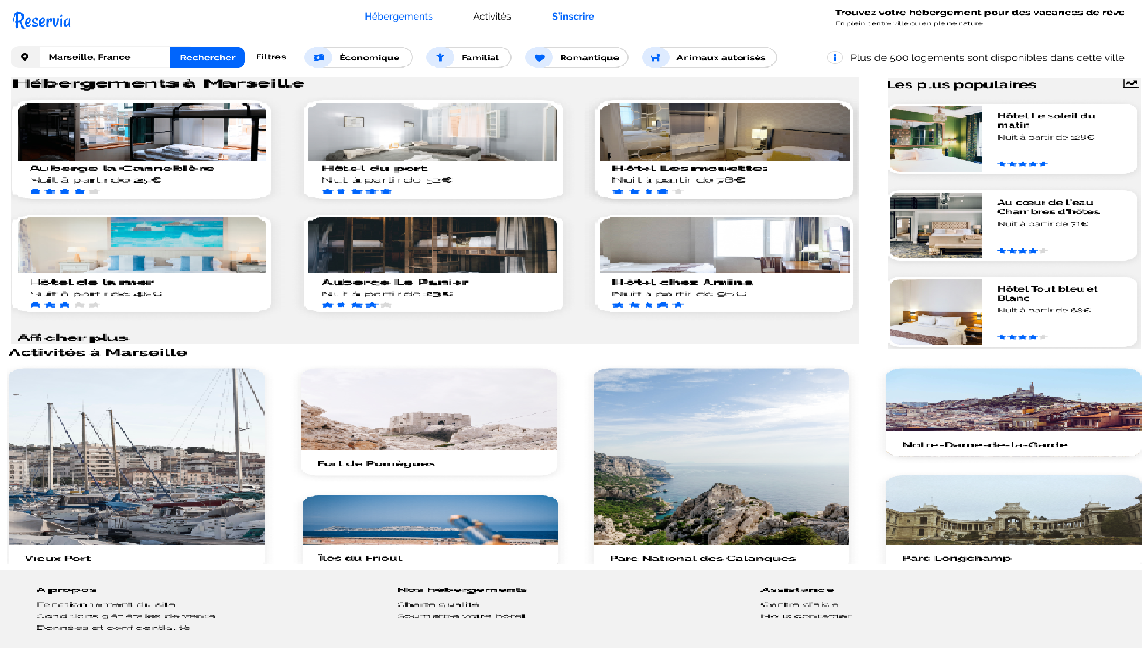
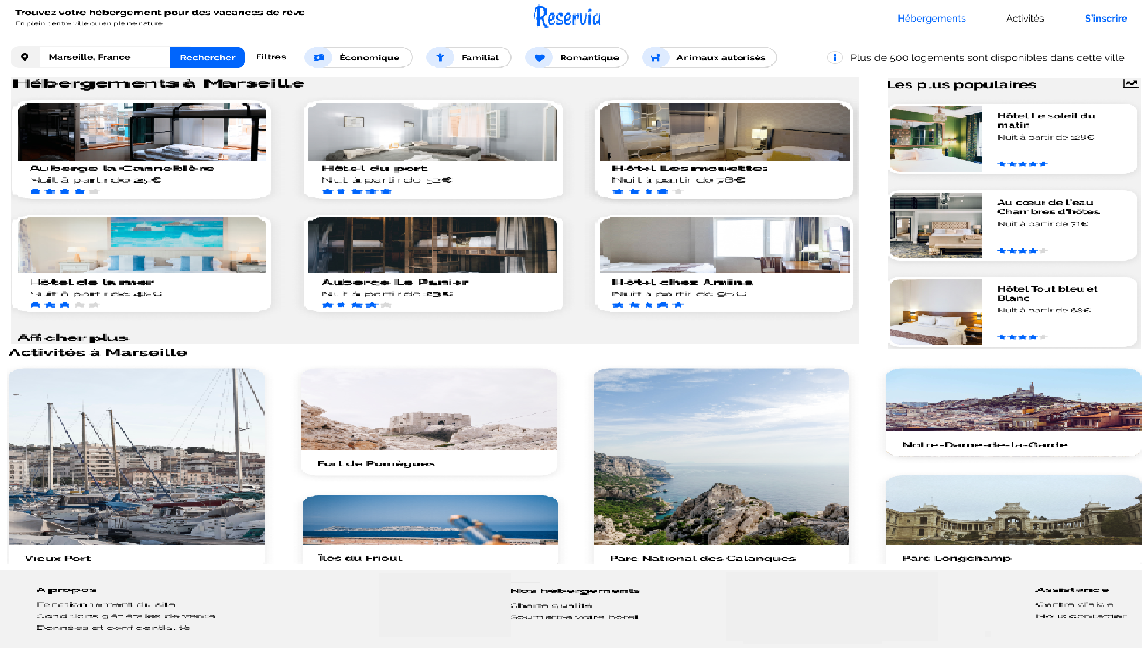
intégration du premier paragraphe

diff --git a/style.css b/style.css
@@ -13,6 +13,10 @@ body {
     display: flex;
     justify-content: space-between;
 }
+.header__logo{
+    margin: 0;
+    padding: 0;
+}
 
 .header__logo img{
     width: 95px;
@@ -45,6 +49,10 @@ border-top: 3px solid #0065FC;
 padding-top: 50px;
 
 }
+.premierParagraphe p:nth-child(1){
+    font-weight: bold;
+}
+
 /***********SMARTPHONE****************/
 @media  screen and (max-width: 414px) {
     .header__nav, .header__logo{  /*cache le header desktop*/
@@ -186,9 +194,6 @@ padding-top: 50px;
         text-align: center;
         
     }
-    .premierParagraphe p:nth-child(1){
-        font-weight: bold;
-    }
-
+    
 }
 
